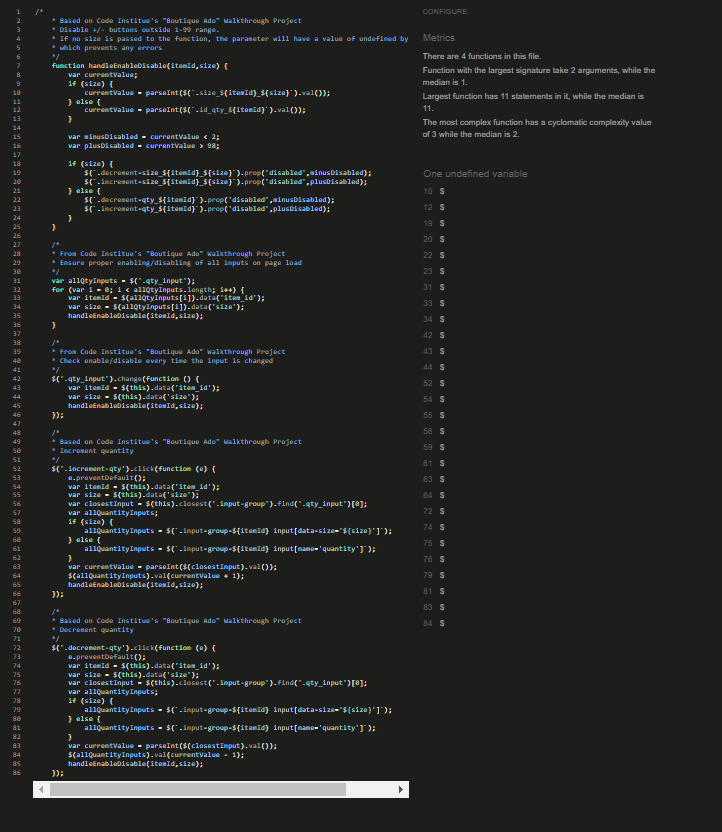
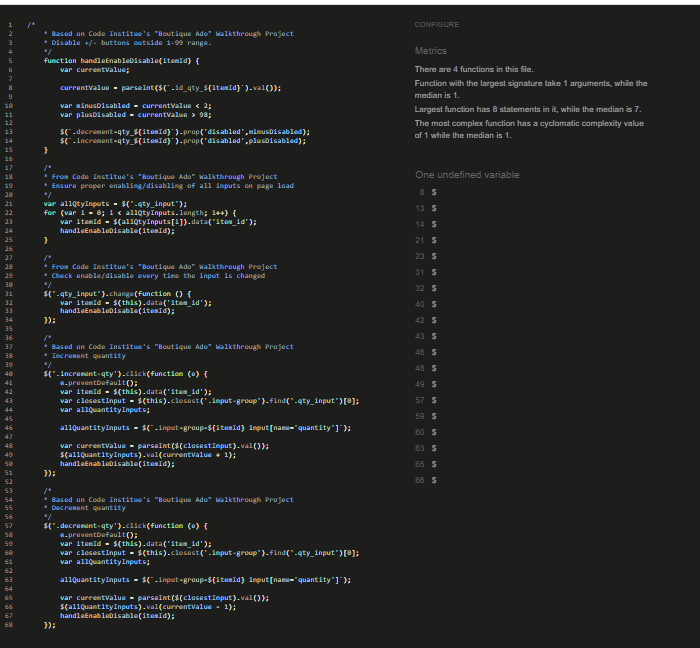
Code review: remove redundant quantity input code

Changed region(s): [[0.0, 0.0, 1.0, 0.9877], [0.57, 0.2469, 0.75, 0.7716]]

diff --git a/books/templates/books/includes/quantity_input_script.html b/books/templates/books/includes/quantity_input_script.html
@@ -2,27 +2,17 @@
     /* 
     * Based on Code Institue's "Boutique Ado" Walkthrough Project
     * Disable +/- buttons outside 1-99 range.
-    * If no size is passed to the function, the parameter will have a value of undefined by default,
-    * which prevents any errors 
     */
-    function handleEnableDisable(itemId,size) {
+    function handleEnableDisable(itemId) {
         var currentValue;
-        if (size) {
-            currentValue = parseInt($(`.size_${itemId}_${size}`).val());
-        } else {
-            currentValue = parseInt($(`.id_qty_${itemId}`).val());
-        }
+
+        currentValue = parseInt($(`.id_qty_${itemId}`).val());
 
         var minusDisabled = currentValue < 2;
         var plusDisabled = currentValue > 98;
 
-        if (size) {
-            $(`.decrement-size_${itemId}_${size}`).prop('disabled',minusDisabled);
-            $(`.increment-size_${itemId}_${size}`).prop('disabled',plusDisabled);
-        } else {
-            $(`.decrement-qty_${itemId}`).prop('disabled',minusDisabled);
-            $(`.increment-qty_${itemId}`).prop('disabled',plusDisabled);
-        }
+        $(`.decrement-qty_${itemId}`).prop('disabled',minusDisabled);
+        $(`.increment-qty_${itemId}`).prop('disabled',plusDisabled);
     }
 
     /*
@@ -32,8 +22,7 @@
     var allQtyInputs = $('.qty_input');
     for (var i = 0; i < allQtyInputs.length; i++) {
         var itemId = $(allQtyInputs[i]).data('item_id');
-        var size = $(allQtyInputs[i]).data('size');
-        handleEnableDisable(itemId,size);
+        handleEnableDisable(itemId);
     }
 
     /*
@@ -42,8 +31,7 @@
     */
     $('.qty_input').change(function () {
         var itemId = $(this).data('item_id');
-        var size = $(this).data('size');
-        handleEnableDisable(itemId,size);
+        handleEnableDisable(itemId);
     });
 
     /*
@@ -53,17 +41,14 @@
     $('.increment-qty').click(function (e) {
         e.preventDefault();
         var itemId = $(this).data('item_id');
-        var size = $(this).data('size');
         var closestInput = $(this).closest('.input-group').find('.qty_input')[0];
         var allQuantityInputs;
-        if (size) {
-            allQuantityInputs = $(`.input-group-${itemId} input[data-size='${size}']`);
-        } else {
-            allQuantityInputs = $(`.input-group-${itemId} input[name='quantity']`);
-        }
+
+        allQuantityInputs = $(`.input-group-${itemId} input[name='quantity']`);
+
         var currentValue = parseInt($(closestInput).val());
         $(allQuantityInputs).val(currentValue + 1);
-        handleEnableDisable(itemId,size);
+        handleEnableDisable(itemId);
     });
 
     /*
@@ -73,16 +58,13 @@
     $('.decrement-qty').click(function (e) {
         e.preventDefault();
         var itemId = $(this).data('item_id');
-        var size = $(this).data('size');
         var closestInput = $(this).closest('.input-group').find('.qty_input')[0];
         var allQuantityInputs;
-        if (size) {
-            allQuantityInputs = $(`.input-group-${itemId} input[data-size='${size}']`);
-        } else {
-            allQuantityInputs = $(`.input-group-${itemId} input[name='quantity']`);
-        }
+
+        allQuantityInputs = $(`.input-group-${itemId} input[name='quantity']`);
+
         var currentValue = parseInt($(closestInput).val());
         $(allQuantityInputs).val(currentValue - 1);
-        handleEnableDisable(itemId,size);
+        handleEnableDisable(itemId);
     });
 </script>

diff --git a/cart/templates/cart/quantity-form.html b/cart/templates/cart/quantity-form.html
@@ -13,7 +13,7 @@
                 </button>
             </div>
             <!-- Books quantity input -->
-            <input class="text-center orm-control form-control-sm qty_input id_qty_{{ item.item_id }}" type="number" name="quantity" value="{{ item.quantity }}" min="1" max="99" data-item_id="{{ item.item_id }}" data-size="{{ item.size }}" aria-label="Books quantity input">
+            <input class="text-center orm-control form-control-sm qty_input id_qty_{{ item.item_id }}" type="number" name="quantity" value="{{ item.quantity }}" min="1" max="99" data-item_id="{{ item.item_id }}" aria-label="Books quantity input">
             <!-- Books quantity increment -->
             <div class="input-group-append">
                 <button class="main-clr-thm increment-qty btn btn-sm increment-qty_{{ item.item_id }}" data-item_id="{{ item.item_id }}" aria-label="Books quantity increment">
